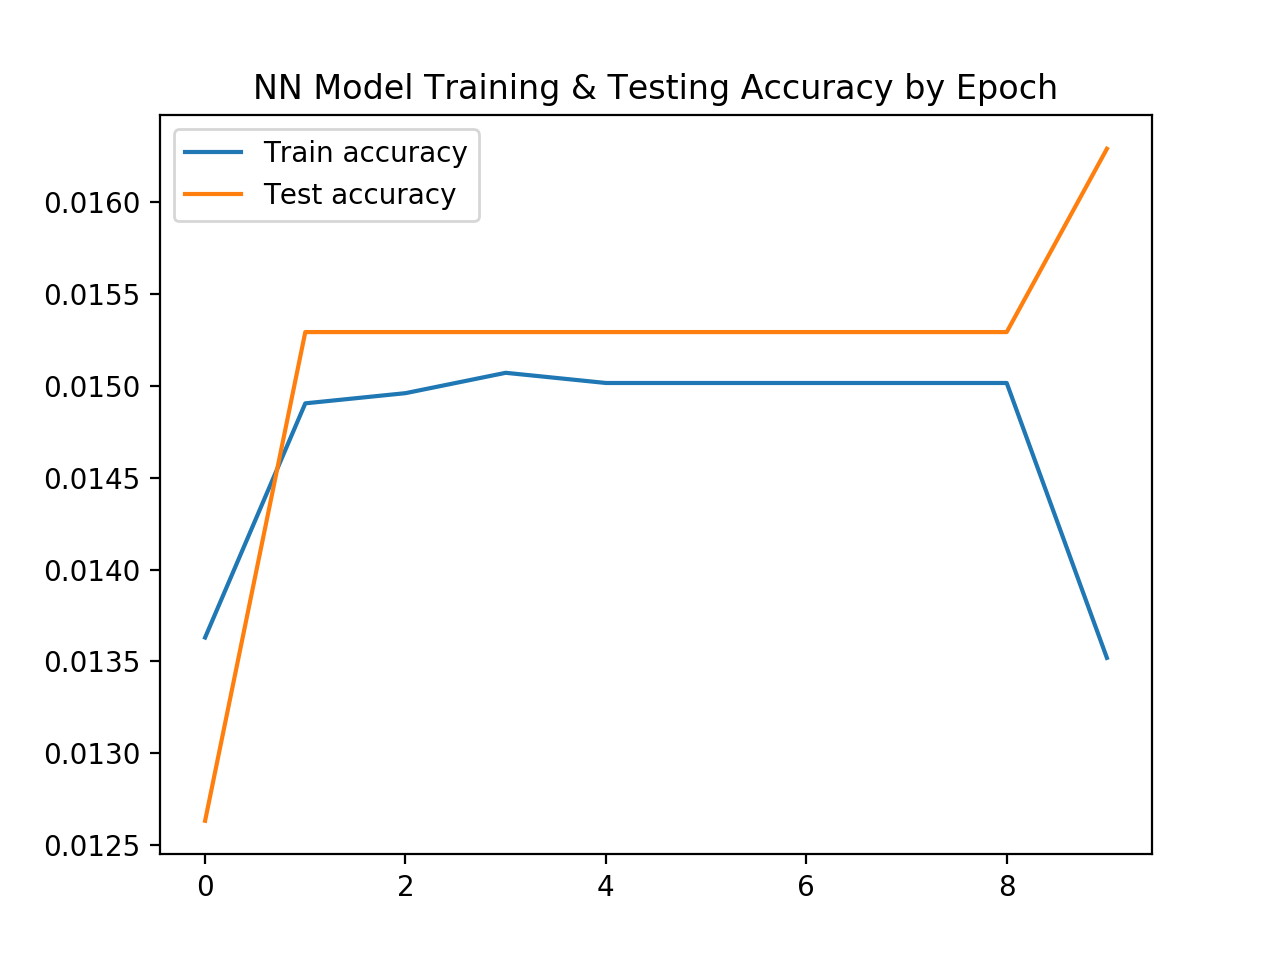
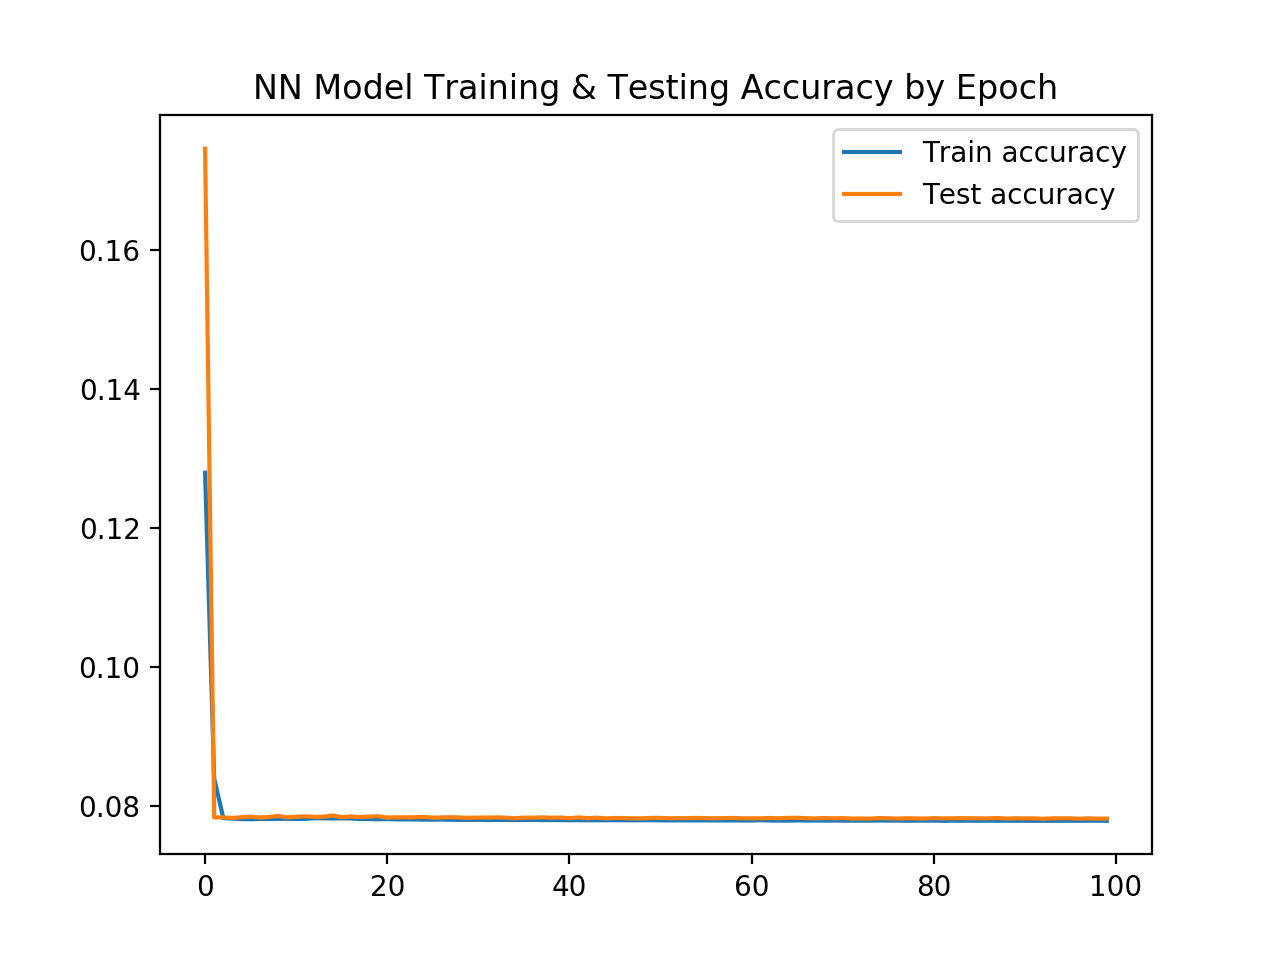
Finished Lab 5.01

diff --git a/code/00g_test_NN_multi.py b/code/00g_test_NN_multi.py
@@ -7,6 +7,7 @@ from sklearn.model_selection import train_test_split
 from keras.models import Sequential
 from keras.layers import Dense, Dropout
 from keras import metrics
+import tensorflow as tf
 
 import matplotlib.pyplot as plt
 
@@ -60,7 +61,7 @@ model.add(Dense(num_labels, activation='sigmoid'))
 
 
 model.compile(loss='binary_crossentropy',
-              metrics=['categorical_accuracy'],
+              metrics=['binary_crossentropy'],
               optimizer='adam')
 
 
@@ -82,8 +83,8 @@ print('\n')
 # print(history.history)
 
 plt.figure(1)
-plt.plot(history.history['categorical_accuracy'], label='Train accuracy')
-plt.plot(history.history['val_categorical_accuracy'], label='Test accuracy')
+plt.plot(history.history['binary_crossentropy'], label='Train accuracy')
+plt.plot(history.history['val_binary_crossentropy'], label='Test accuracy')
 plt.title('NN Model Training & Testing Accuracy by Epoch')
 plt.legend()
 save_fig('NN_multi_40_acc_plot', folder='NN_metrics')
